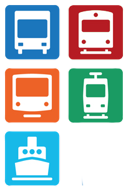
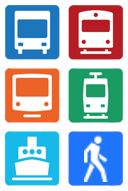
texas ranger assimilation

Changed region(s): [[0.5312, 0.6806, 0.9688, 0.9948]]

diff --git a/web/css/route_graph.less b/web/css/route_graph.less
@@ -100,9 +100,7 @@
             background-color: #1e74fc;
         }
         i {
-            background-image: url('../img/walker_texas_ranger_tiny.png');
-            background-repeat: no-repeat;
-            background-position: center;
+            background-position: 18px 18px;
         }
     }
 
